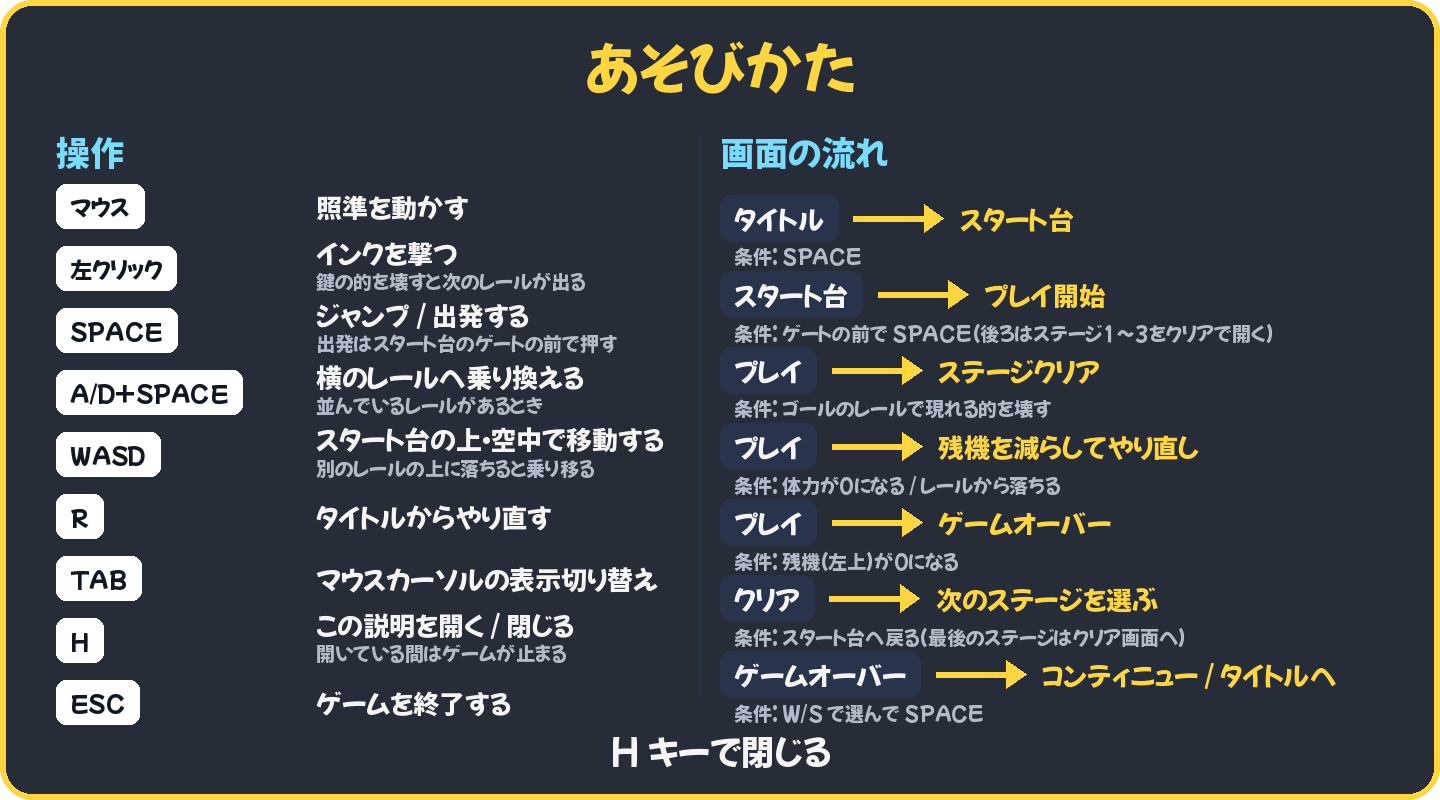
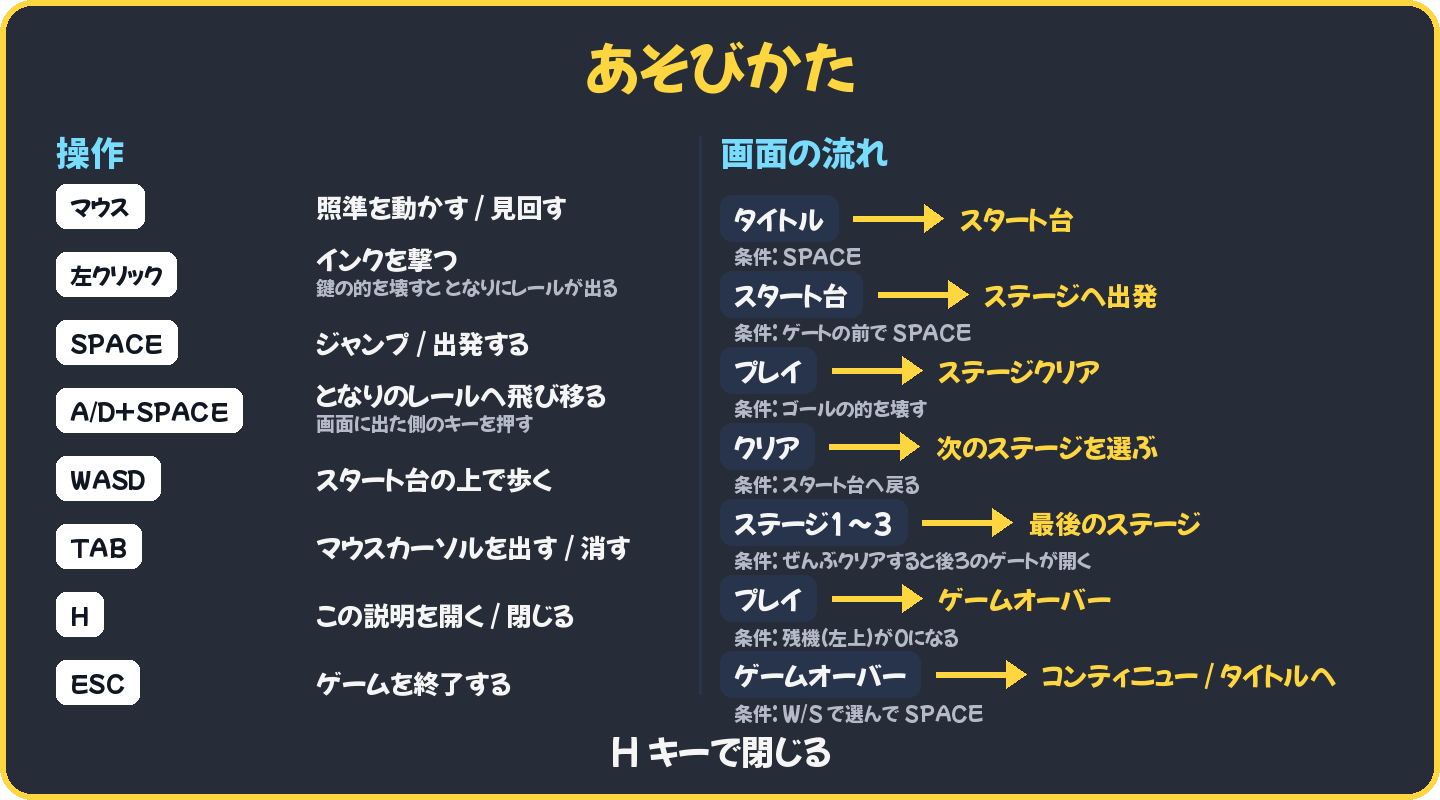
H キーの操作説明を、ぱっと見で分かるように作り直した
- 確認用の R を画像から消し、補足はつまずきやすい操作だけにして短い言葉にした
- 画面の流れを短くし、後ろのゲートが開く条件を1行にした
- プレイ会用の設定のときは、ステージ1だけを遊ぶ流れの説明 (helpPlaySession.png) を出すようにした

Claude-Session: https://claude.ai/code/session_015pDW3CN4JodmQDDzDMsFyi

diff --git a/Project/tools/generate_help_texture.py b/Project/tools/generate_help_texture.py
@@ -3,7 +3,8 @@
 # 使い方: python tools/generate_help_texture.py  (Projectフォルダで実行する。Pillowが必要)
 # 出力先: resource/UI/help.png(説明の本体) / resource/UI/helpHint.png(画面の隅に常に出す「H あそびかた」)
 #         resource/UI/quitHint.png(タイトル画面の右上に出す「ESC ゲーム終了」)
-# 操作やキーを変えたときは、下の CONTROLS / FLOWS を書き換えて実行し直す。
+# 操作やキーを変えたときは、下の CONTROLS / FLOWS / PLAY_SESSION_FLOWS を書き換えて実行し直す。
+# プレイ会用の設定(調整項目 playSessionMode)のときは、画面の流れをステージ1だけにした helpPlaySession.png を出す。
 
 from pathlib import Path
 
@@ -11,6 +12,7 @@ from PIL import Image, ImageDraw, ImageFont
 
 # 出力するファイルのパス(Projectフォルダからの相対パス)
 HELP_OUTPUT_PATH = Path("resource/UI/help.png")
+PLAY_SESSION_HELP_OUTPUT_PATH = Path("resource/UI/helpPlaySession.png")
 HINT_OUTPUT_PATH = Path("resource/UI/helpHint.png")
 QUIT_HINT_OUTPUT_PATH = Path("resource/UI/quitHint.png")
 # 文字に使うフォント(リポジトリに入っている日本語フォント)
@@ -41,28 +43,36 @@ PANEL_EDGE_WIDTH = 6
 # 画像の端から文字までの余白(ピクセル)
 PADDING = 56
 
-# 操作の一覧(キー, 説明, 補足)
+# 操作の一覧(キー, 説明, 補足)。ぱっと見で分かるよう、補足はつまずきやすい操作にだけ付ける
 CONTROLS = [
-    ("マウス", "照準を動かす", ""),
-    ("左クリック", "インクを撃つ", "鍵の的を壊すと次のレールが出る"),
-    ("SPACE", "ジャンプ / 出発する", "出発はスタート台のゲートの前で押す"),
-    ("A/D+SPACE", "横のレールへ乗り換える", "並んでいるレールがあるとき"),
-    ("WASD", "スタート台の上・空中で移動する", "別のレールの上に落ちると乗り移る"),
-    ("R", "タイトルからやり直す", ""),
-    ("TAB", "マウスカーソルの表示切り替え", ""),
-    ("H", "この説明を開く / 閉じる", "開いている間はゲームが止まる"),
+    ("マウス", "照準を動かす / 見回す", ""),
+    ("左クリック", "インクを撃つ", "鍵の的を壊すと となりにレールが出る"),
+    ("SPACE", "ジャンプ / 出発する", ""),
+    ("A/D+SPACE", "となりのレールへ飛び移る", "画面に出た側のキーを押す"),
+    ("WASD", "スタート台の上で歩く", ""),
+    ("TAB", "マウスカーソルを出す / 消す", ""),
+    ("H", "この説明を開く / 閉じる", ""),
     ("ESC", "ゲームを終了する", ""),
 ]
 
 # 画面の流れ(遷移元, 条件, 遷移先)
 FLOWS = [
     ("タイトル", "SPACE", "スタート台"),
-    ("スタート台", "ゲートの前で SPACE(後ろはステージ1〜3をクリアで開く)", "プレイ開始"),
-    ("プレイ", "ゴールのレールで現れる的を壊す", "ステージクリア"),
-    ("プレイ", "体力が0になる / レールから落ちる", "残機を減らしてやり直し"),
+    ("スタート台", "ゲートの前で SPACE", "ステージへ出発"),
+    ("プレイ", "ゴールの的を壊す", "ステージクリア"),
+    ("クリア", "スタート台へ戻る", "次のステージを選ぶ"),
+    ("ステージ1〜3", "ぜんぶクリアすると後ろのゲートが開く", "最後のステージ"),
     ("プレイ", "残機(左上)が0になる", "ゲームオーバー"),
-    ("クリア", "スタート台へ戻る(最後のステージはクリア画面へ)", "次のステージを選ぶ"),
     ("ゲームオーバー", "W/S で選んで SPACE", "コンティニュー / タイトルへ"),
+]
+
+# プレイ会用の画面の流れ(ステージ1だけを遊ぶ)
+PLAY_SESSION_FLOWS = [
+    ("タイトル", "SPACE", "スタート台"),
+    ("スタート台", "正面のゲートの前で SPACE", "ステージ1へ出発"),
+    ("プレイ", "ゴールの的を壊す", "クリア!"),
+    ("プレイ", "残機(左上)が0になる", "ゲームオーバー"),
+    ("クリア / ゲームオーバー", "SPACE", "タイトルへ戻る"),
 ]
 
 
@@ -88,7 +98,8 @@ def draw_arrow(draw, left, right, center_y):
     draw.polygon([(right, center_y), (right - head * 1.4, center_y - head), (right - head * 1.4, center_y + head)], fill=ARROW_COLOR)
 
 
-def generate_help():
+def generate_help(controls, flows, output_path):
+    """操作の一覧 controls と画面の流れ flows を描いた説明の画像を output_path に書き出す"""
     image = Image.new("RGBA", HELP_SIZE, (0, 0, 0, 0))
     draw = ImageDraw.Draw(image)
     width, height = HELP_SIZE
@@ -113,10 +124,10 @@ def generate_help():
     # 左の列: 操作の一覧
     draw.text((left_column, top), "操作", font=heading_font, fill=HEADING_COLOR, anchor="lt")
     key_area_width = 260
-    # 操作が9行あるため、一番下の「H キーで閉じる」に重ならない間隔にする
-    row_height = 62
+    # 操作が8行あるため、一番下の「H キーで閉じる」に重ならない、なるべく広い間隔にする
+    row_height = 68
     y = top + 70
-    for key, text, sub in CONTROLS:
+    for key, text, sub in controls:
         draw_key(draw, left_column, y, key, key_font)
         if sub:
             draw.text((left_column + key_area_width, y - 4), text, font=text_font, fill=TEXT_COLOR, anchor="ls")
@@ -134,7 +145,7 @@ def generate_help():
     flow_row_height = 76
     box_height = 46
     y = top + 82
-    for source, condition, destination in FLOWS:
+    for source, condition, destination in flows:
         # 遷移元の画面を枠で囲む
         source_width = draw.textlength(source, font=text_font) + 28
         draw.rounded_rectangle((right_column, y - box_height / 2, right_column + source_width, y + box_height / 2), radius=12, fill=SCENE_BOX_COLOR)
@@ -155,8 +166,8 @@ def generate_help():
     # 一番下の案内
     draw.text((width / 2, height - PADDING + 6), "H キーで閉じる", font=heading_font, fill=TEXT_COLOR, anchor="mm")
 
-    HELP_OUTPUT_PATH.parent.mkdir(parents=True, exist_ok=True)
-    image.save(HELP_OUTPUT_PATH)
+    output_path.parent.mkdir(parents=True, exist_ok=True)
+    image.save(output_path)
 
 
 def generate_key_hint(size, key, text, output_path):
@@ -182,6 +193,7 @@ def generate_quit_hint():
 
 
 if __name__ == "__main__":
-    generate_help()
+    generate_help(CONTROLS, FLOWS, HELP_OUTPUT_PATH)
+    generate_help(CONTROLS, PLAY_SESSION_FLOWS, PLAY_SESSION_HELP_OUTPUT_PATH)
     generate_hint()
     generate_quit_hint()

diff --git a/Project/Game/UI/HelpOverlay.cpp b/Project/Game/UI/HelpOverlay.cpp
@@ -4,10 +4,13 @@
 #include "SpriteCommon.h"
 #include "TextureManager.h"
 #include "WinAPI.h"
+#include "objects/StageInfo.h"
 
 namespace{
 	// 説明の本体(操作方法と画面の流れ)
 	const std::string kHelpTexture = "resource/UI/help.png";
+	// プレイ会用の設定のときに出す説明の本体(画面の流れをステージ1だけにしたもの)
+	const std::string kPlaySessionHelpTexture = "resource/UI/helpPlaySession.png";
 	// 閉じている間に出す「H あそびかた」の案内
 	const std::string kHintTexture = "resource/UI/helpHint.png";
 	// 説明の後ろの幕(色を付けて画面全体に引き伸ばす)
@@ -26,6 +29,7 @@ void HelpOverlay::Initialize(SpriteCommon* spriteCommon){
 
 	TextureManager* textureManager = TextureManager::GetInstance();
 	textureManager->LoadTexture(kHelpTexture);
+	textureManager->LoadTexture(kPlaySessionHelpTexture);
 	textureManager->LoadTexture(kHintTexture);
 	textureManager->LoadTexture(kDimTexture);
 
@@ -48,6 +52,7 @@ void HelpOverlay::Initialize(SpriteCommon* spriteCommon){
 	const Vector4 white = {1.0f, 1.0f, 1.0f, 1.0f};
 	dimSprite_ = createSprite(kDimTexture,screenCenter,{screenWidth, screenHeight},kCenterAnchor,kDimColor);
 	helpSprite_ = createSprite(kHelpTexture,screenCenter,kHelpSize,kCenterAnchor,white);
+	playSessionHelpSprite_ = createSprite(kPlaySessionHelpTexture,screenCenter,kHelpSize,kCenterAnchor,white);
 	hintSprite_ = createSprite(kHintTexture,{kScreenMargin, screenHeight - kScreenMargin},kHintSize,kBottomLeftAnchor,kHintColor);
 }
 
@@ -75,9 +80,14 @@ void HelpOverlay::Draw(){
 	spriteCommon_->Draw(); // 描画前処理
 
 	// 開いている間は説明だけを出し、閉じている間は案内だけを出す
+	// プレイ会用の設定のときは、ステージ1だけを遊ぶ流れの説明を出す
 	if(isOpen_){
 		dimSprite_->Draw();
-		helpSprite_->Draw();
+		if(StageInfo::isPlaySessionMode){
+			playSessionHelpSprite_->Draw();
+		} else{
+			helpSprite_->Draw();
+		}
 	} else{
 		hintSprite_->Draw();
 	}

diff --git a/Project/Game/UI/HelpOverlay.h b/Project/Game/UI/HelpOverlay.h
@@ -43,6 +43,8 @@ private:
 	std::unique_ptr<Sprite> dimSprite_;
 	// 説明の本体(操作方法と画面の流れ)
 	std::unique_ptr<Sprite> helpSprite_;
+	// プレイ会用の設定のときに出す説明の本体(画面の流れをステージ1だけにしたもの)
+	std::unique_ptr<Sprite> playSessionHelpSprite_;
 	// 閉じている間に画面の隅に出す案内
 	std::unique_ptr<Sprite> hintSprite_;
 

diff --git a/Project/CLAUDE.md b/Project/CLAUDE.md
@@ -78,6 +78,7 @@
   - プレイ会用の設定を足した（調整項目 `GameScene` グループの `playSessionMode`。初期値は OFF）。ON のときは次のようになる。
     - 開けられるのは正面（ステージ1）のゲートだけ。右・左のゲートの前に来ると「いまは遊べないよ!!」の画像を出す（`StageLockedNotice`、`resource/UI/stageLocked.png`、`tools/generate_stage_locked_notice.py`）。
     - ステージ1をクリアすると、大ジャンプで戻って壁が壊れるのを見せた後に、クリア画面へ移る（その後はタイトルへ戻り、次の人が最初から遊べる）。
+    - H キーの操作説明も、画面の流れをステージ1だけにしたもの（`resource/UI/helpPlaySession.png`）を出す。
     - プレイ会では、Global Variables パネルで `playSessionMode` を ON にして Save するか、`resource/GlobalVariables/GameScene.json` の `playSessionMode` を `true` にしたものを使う。提出用は OFF に戻す。
   - 場面ごとに画面の上へ操作の案内を1つずつ出すようにした（仮。`TutorialHints`、画像は `tools/generate_tutorial_hints.py`）。「WASD で移動・マウスで見回す（2m 歩いたら消える）→ 左クリックで試し撃ち（5 発撃ったら消える）→ ゲートの前で SPACE（ゲートを開けたら消える）→ レールで的を撃つ（的を1つ壊すか 6 秒で消える）」の順。タイトルから始め直すと最初から出し、落ちてやり直しても出し直さない。ゴールの的の案内は、見てから足すか決める。
   - 鍵の的を壊して出たレールへ飛び移れるとき、そのレールがある側の画面の端に「A + SPACE」「D + SPACE」を点滅させて出すようにした（`RailSwitchPrompt`、画像は `tools/generate_rail_switch_prompt.py`）。左右は飛び移る処理と同じ判定（`Player::FindSideRailDirection()`）で求める。一度乗った鍵のレールには出さない。最初にこの案内を出したときだけ、飛び移るまで（最大 3 秒）レールを進む・敵・弾・的・しぶきを 0.25 倍の速さにする（カメラとキーの入力は通常の速さ。タイトルから始め直すまでもう一度はしない）。
@@ -108,7 +109,7 @@
 ### 3.1 暫定対応のまま残っている箇所
 
 - **仮素材**：PRESS SPACE（`resource/Title/pressSpace.png`）、出発ゲートの目印・輪、操作案内・GO!・カウントダウンの数字（`tools/generate_start_stage_assets.py`）、「STAGE CLEAR!」（`tools/generate_stage_clear_assets.py`）、クリア・ゲームオーバー画面の画像（`tools/generate_result_assets.py`）、落下リスタートの「RETRY」の文字。本番の素材ができたら差し替える。
-- **確認用の処理**：Play 中の R キーでタイトルからやり直す処理が、一時的な処理のまま残っている（操作説明の画像にも R が載っている）。
+- **確認用の処理**：Play 中の R キーでタイトルからやり直す処理が、一時的な処理のまま残っている（プレイ会で係の人がやり直すのに使えるため残し、操作説明の画像からは消した）。
 - **ステージ2〜4**：まっすぐな仮のレール1本と仮の的4つだけ。
 
 ### 3.2 不足点（2026-10-30 にコードと起動で確認、要優先度調整）

diff --git a/Project/GameClassSpec.md b/Project/GameClassSpec.md
@@ -1043,7 +1043,7 @@ Edit モードの Global Variables パネル、または `resource/GlobalVariabl
 
 ### HelpOverlay（`UI/HelpOverlay.h/.cpp`）
 
-H キーで開閉する操作説明。操作方法と画面の流れ（どうすれば各画面へ進むか）を 1 枚の画像（`UI/help.png`、1440 × 800）で画面中央に等倍表示し、後ろのゲーム画面を黒の半透明で暗くする。閉じている間は左下に「H あそびかた」の案内（`UI/helpHint.png`）を出す。ImGui を使わずスプライトで描くため、Release 構成でも表示される。
+H キーで開閉する操作説明。操作方法と画面の流れ（どうすれば各画面へ進むか）を 1 枚の画像（`UI/help.png`、1440 × 800）で画面中央に等倍表示し、後ろのゲーム画面を黒の半透明で暗くする。閉じている間は左下に「H あそびかた」の案内（`UI/helpHint.png`）を出す。プレイ会用の設定（`StageInfo::isPlaySessionMode`）のときは、画面の流れをステージ1だけにした画像（`UI/helpPlaySession.png`）を出す。ImGui を使わずスプライトで描くため、Release 構成でも表示される。
 
 - 画像は `tools/generate_help_texture.py` で生成する（Project フォルダで `python tools/generate_help_texture.py`、Pillow が必要）。操作やキーを変えたときは、スクリプトの `CONTROLS` / `FLOWS` を書き換えて実行し直す。
 - GameScene では Play モード中だけ開ける（Edit モードで ImGui の文字入力に H を打っても開かないようにするため）。開いている間は `Update()` の冒頭で戻り、ゲームの進行と入力をすべて止める。
